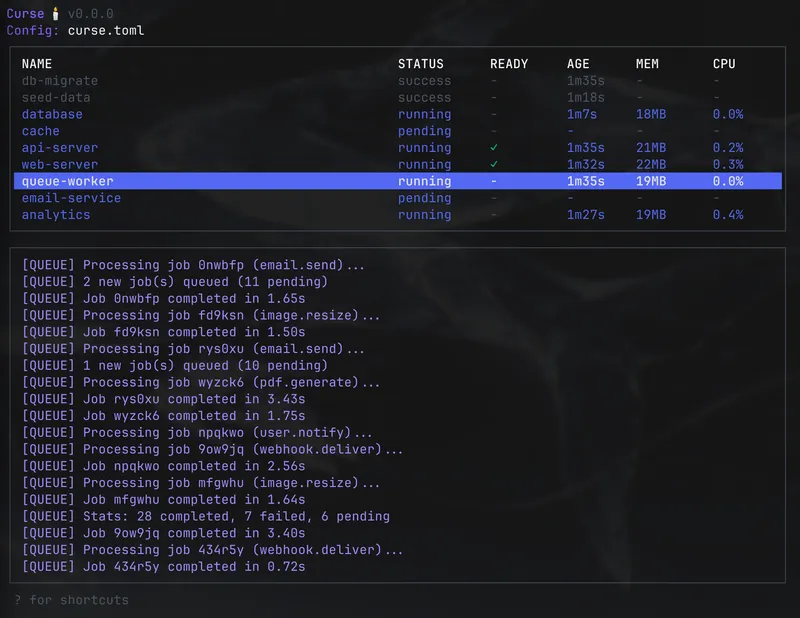
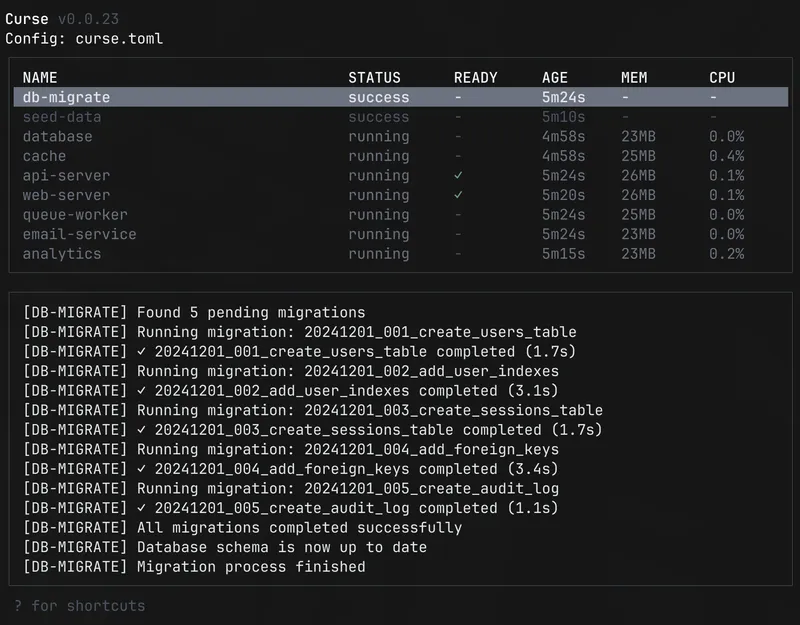
feat: refresh curse cover with latest screenshot
Pulled the current screenshot from wu-json/curse and re-ran the
optimize-photos pipeline so `/constructs/curse` reflects the latest UI.

Made-with: Cursor

Changed region(s): [[0.0, 0.0, 1.0, 0.9838]]

diff --git a/src/screens/Constructs/entries/001-curse.md b/src/screens/Constructs/entries/001-curse.md
@@ -4,13 +4,13 @@ title: Curse
 subtitle: Terminal UI for process orchestration
 date: '2025.09'
 cover: cover
-coverWidth: 2292
-coverHeight: 1770
+coverWidth: 1636
+coverHeight: 1278
 linkLabel: source code
 link: https://github.com/wu-json/curse
 ---
 
-<img src="/images/constructs/curse/cover-full.webp" alt="Curse terminal UI" width="2292" height="1770">
+<img src="/images/constructs/curse/cover-full.webp" alt="Curse terminal UI" width="1636" height="1278">
 
 A dead simple Terminal UI for running processes, configured through a single `curse.toml` file. You define your processes, their dependencies, and optional health checks — and curse handles the rest. It shows each process in a table with live status, memory, and CPU usage, and lets you drill into scrollable logs for any of them.
 
